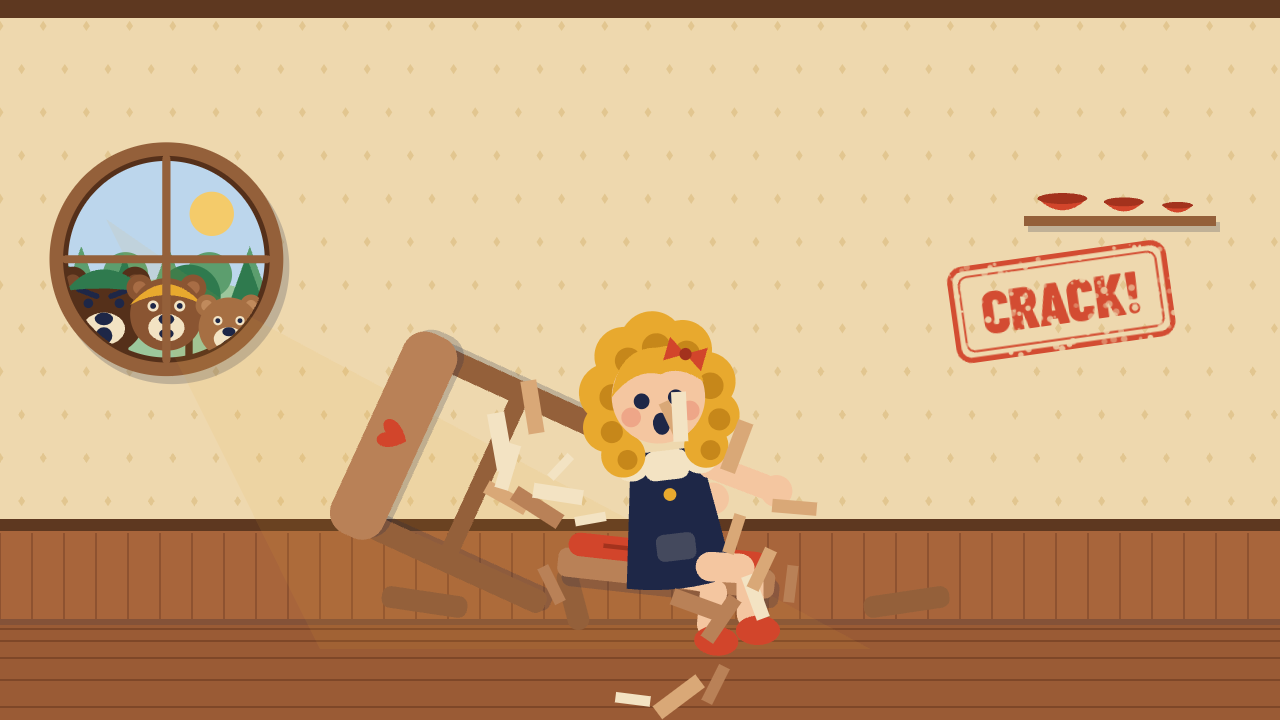
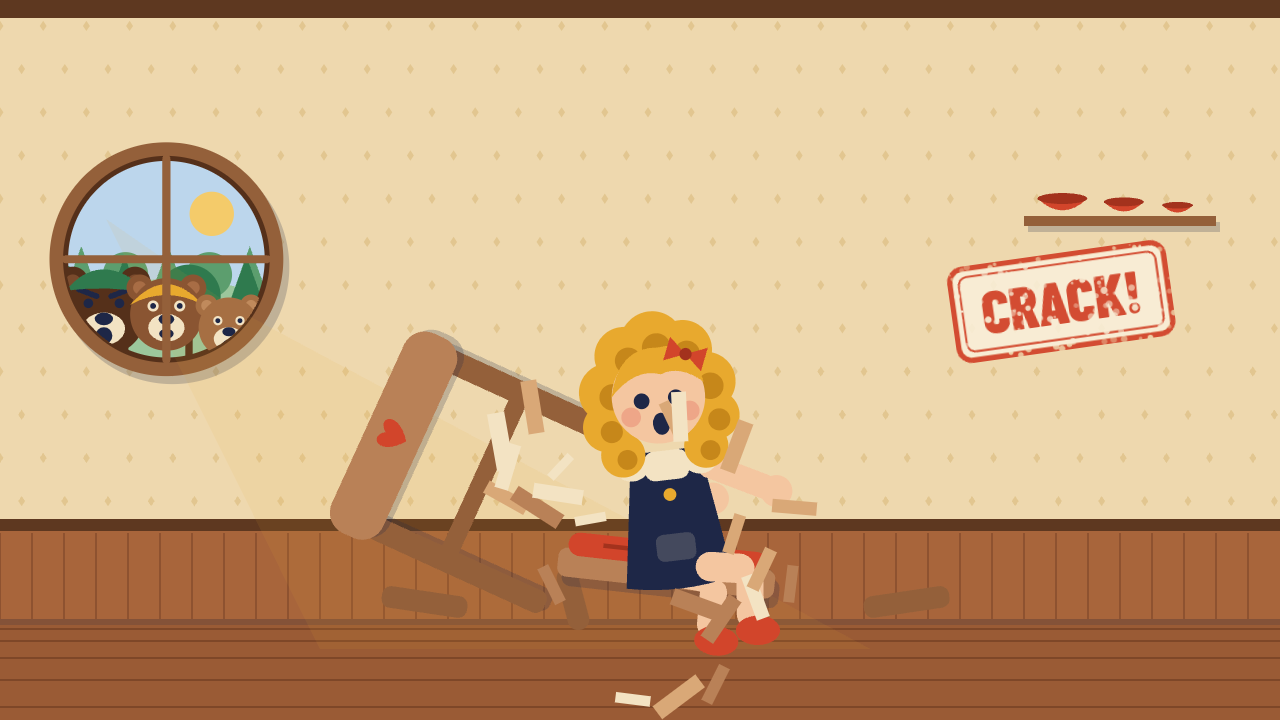
Stamps on a cream label, so they read over the red pot; points float clear of them

Changed region(s): [[0.7188, 0.3361, 0.9375, 0.5194]]

diff --git a/game/kit.js b/game/kit.js
@@ -160,10 +160,12 @@ function stampCanvas(text, size, color, dpr) {
   const padY = size * 0.3;
   const w = Math.ceil(tw + padX * 2);
   const h = Math.ceil(size * 1.05 + padY * 2);
-  c = document.createElement('canvas');
-  c.width = Math.ceil(w * dpr) + 4;
-  c.height = Math.ceil(h * dpr) + 4;
-  const g = c.getContext('2d');
+  // The ink goes on its own layer (its bare specks mustn't cut the paper), then onto a cream label, so a red stamp reads on a
+  // red pot as well as on the wall.
+  const ink = document.createElement('canvas');
+  ink.width = Math.ceil(w * dpr) + 4;
+  ink.height = Math.ceil(h * dpr) + 4;
+  const g = ink.getContext('2d');
   g.scale(dpr, dpr);
   g.translate(1, 1);
   const lw = Math.max(2.5, size * 0.09);
@@ -191,6 +193,18 @@ function stampCanvas(text, size, color, dpr) {
     g.fill();
   }
   g.globalAlpha = 1;
+  c = document.createElement('canvas');
+  c.width = ink.width;
+  c.height = ink.height;
+  const p = c.getContext('2d');
+  p.save();
+  p.scale(dpr, dpr);
+  p.translate(1, 1);
+  rr(p, lw, lw, w - lw * 2, h - lw * 2, size * 0.2);
+  p.fillStyle = 'rgba(250,240,218,0.9)';
+  p.fill();
+  p.restore();
+  p.drawImage(ink, 0, 0);
   c.cssW = w + 2;
   c.cssH = h + 2;
   stampCache.set(key, c);

diff --git a/game/main.js b/game/main.js
@@ -317,7 +317,7 @@ async function boot() {
       else if (r.k === 'asleep') sfx.poof();
       else if (r.d > P.w + 0.08) sfx.trombone();
       else sfx.thud();
-      if (r.k !== 'asleep' && pc && pc.kind !== 'attract') fx.float(`+${pts}`, spot.x, spot.y + spot.size * 1.3, { color: r.k === 'perfect' ? C.red : C.ink, size: L.small ? 26 : 34 });
+      if (r.k !== 'asleep' && pc && pc.kind !== 'attract') fx.float(`+${pts}`, spot.x, spot.y + spot.size * 2.1, { color: r.k === 'perfect' ? C.red : C.ink, size: L.small ? 26 : 34 });
     });
     // The page's own sound and particles.
     const k = r.k;
